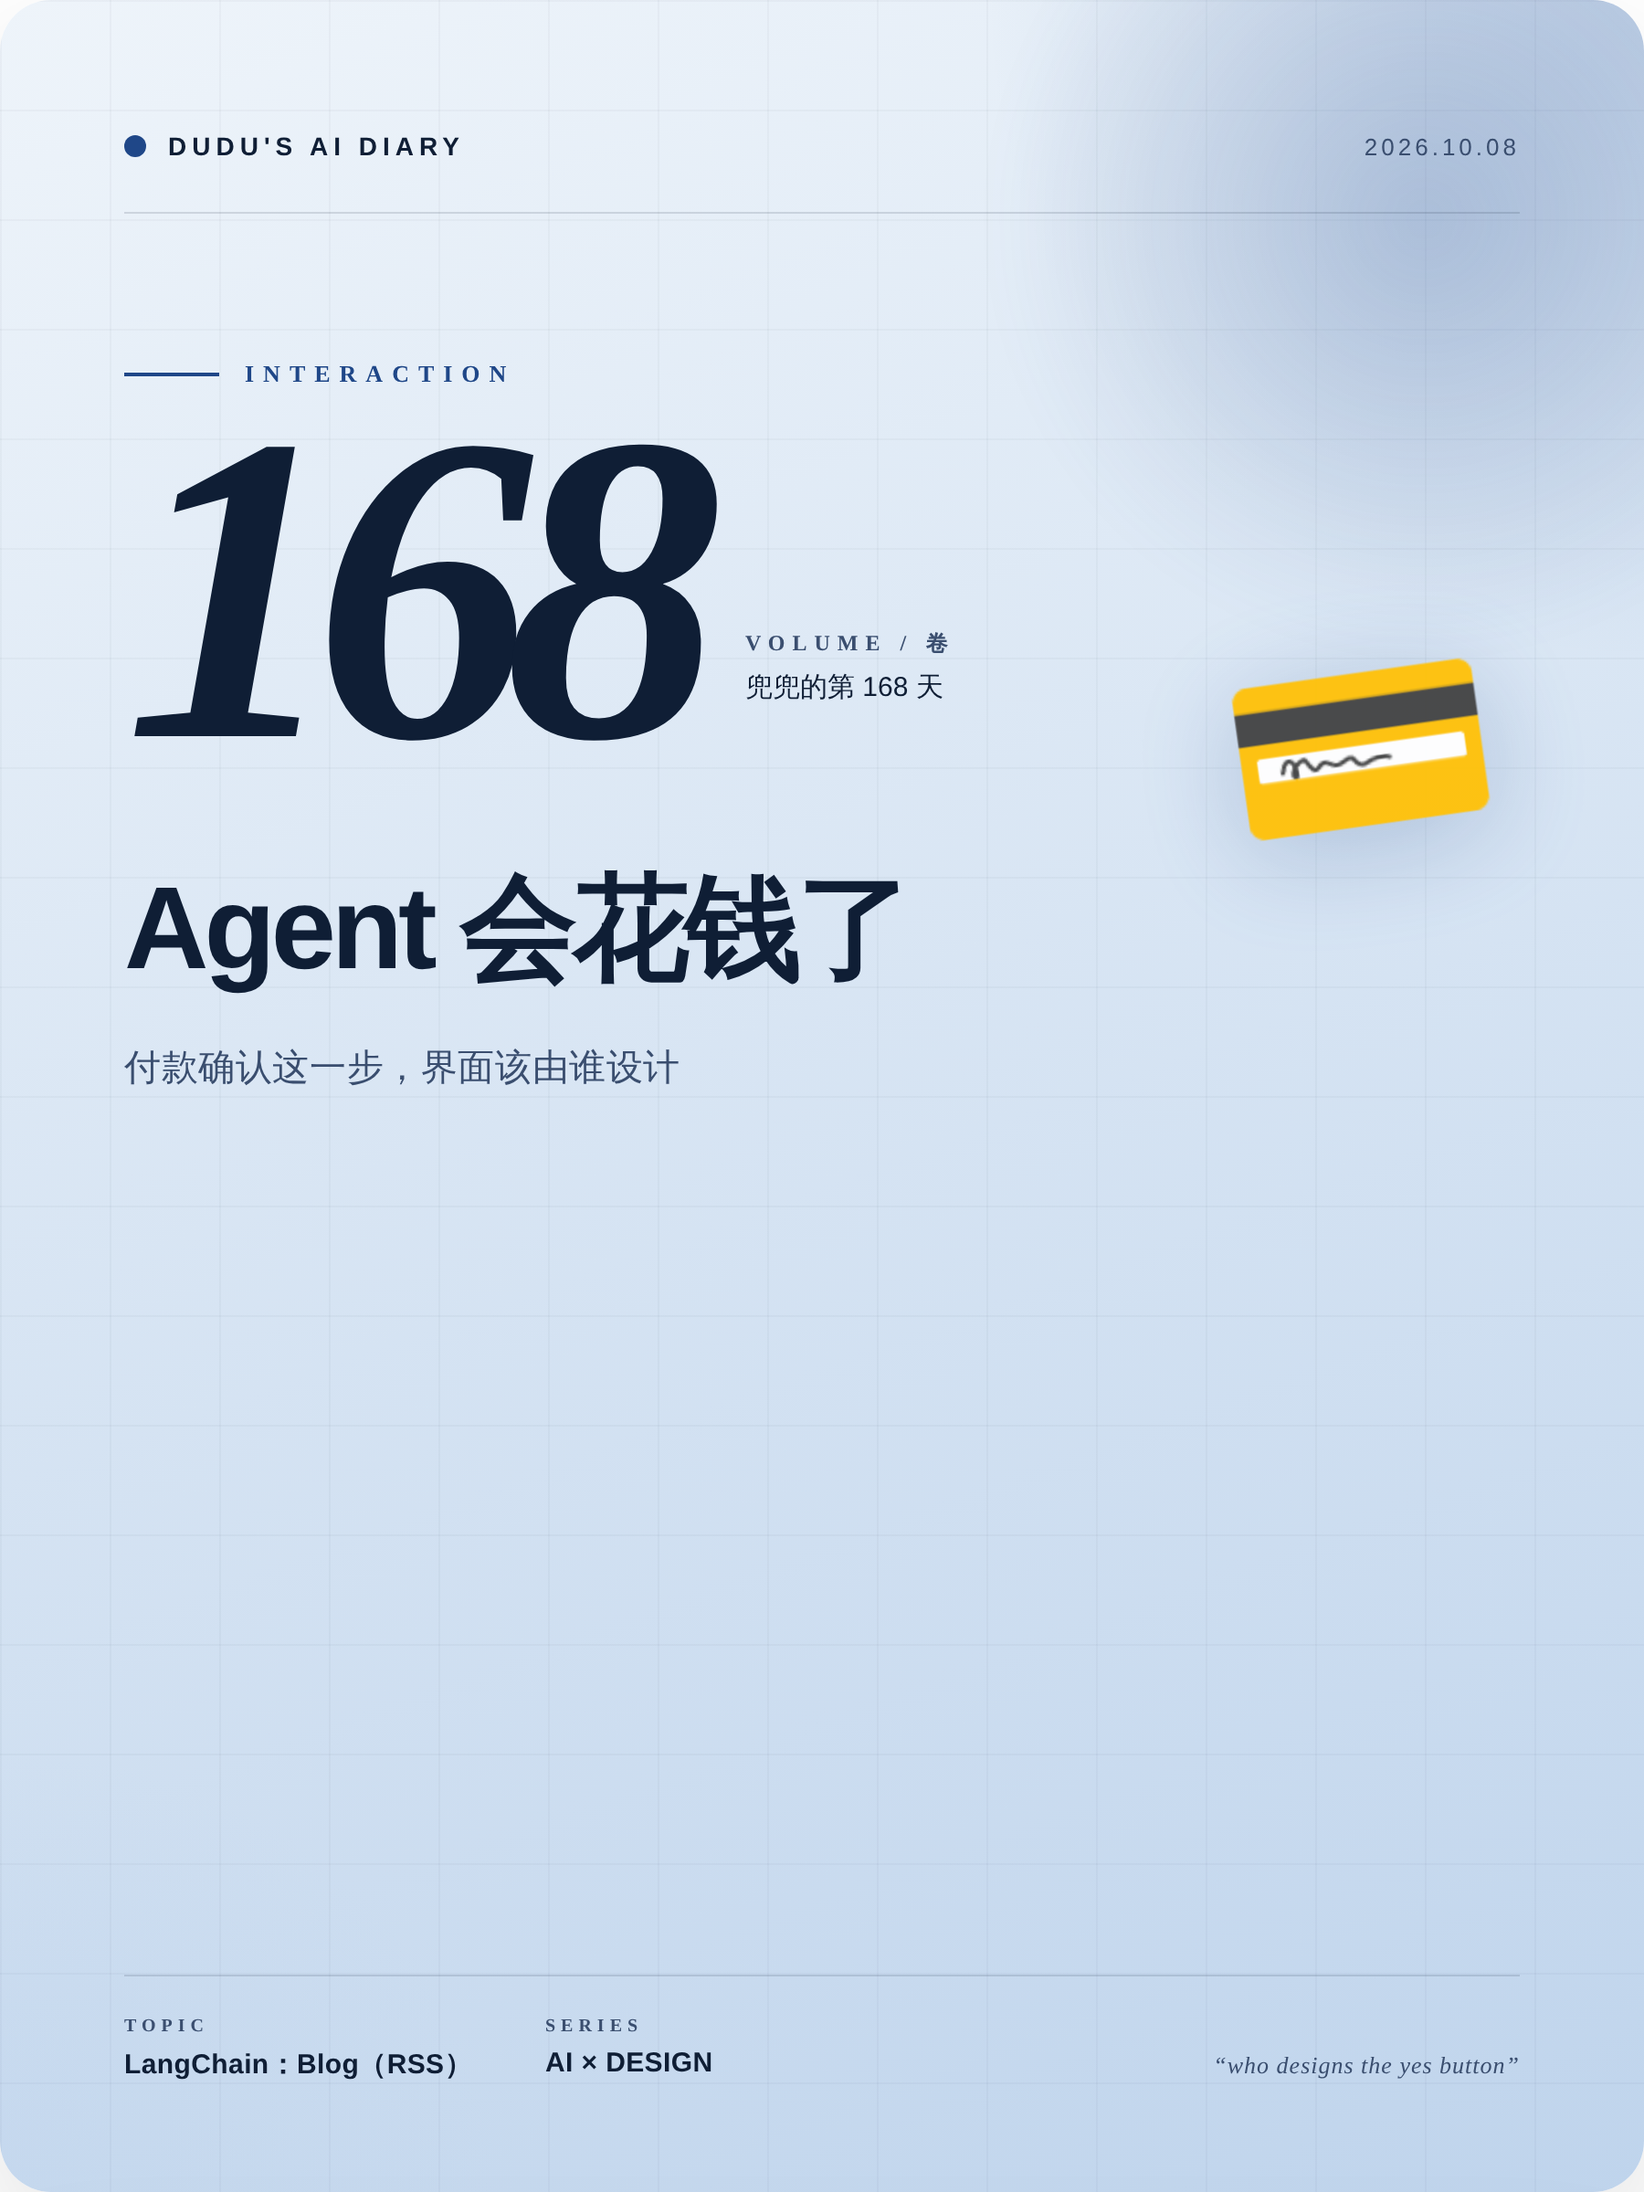
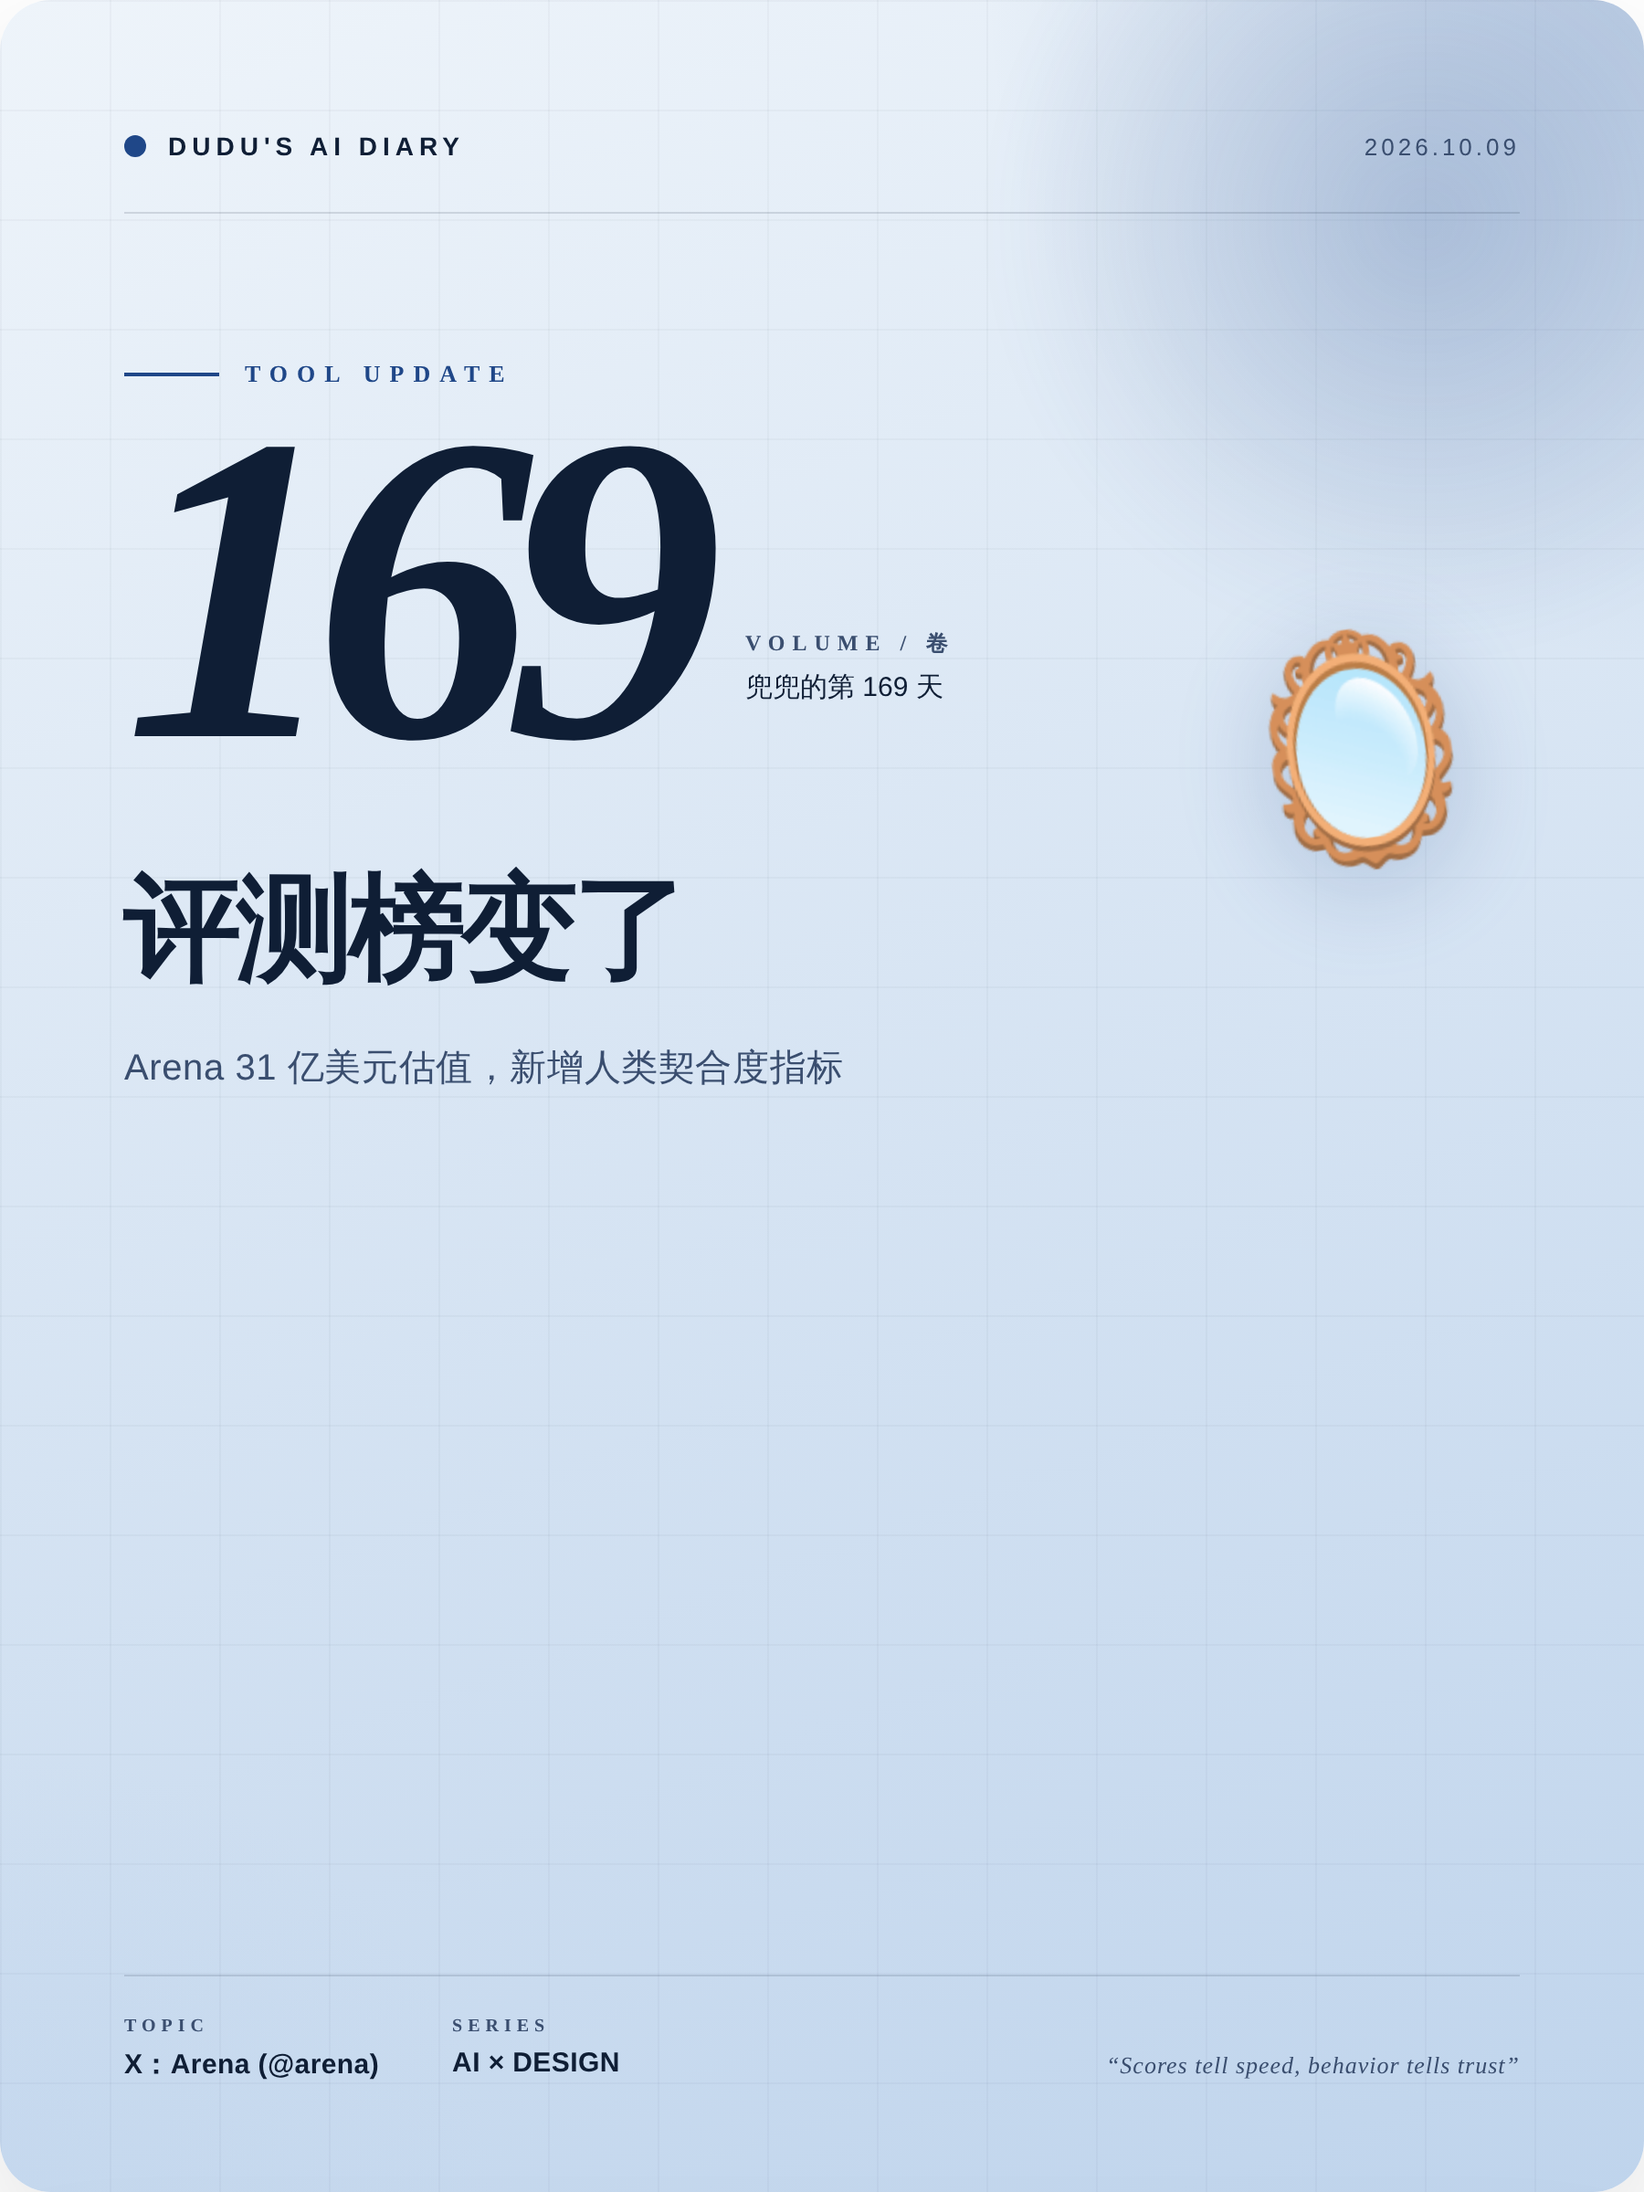
🐣 兜兜的第 169 天日记 (2026-10-09)

diff --git a/output/preview.html b/output/preview.html
@@ -171,37 +171,37 @@ body{font-family:-apple-system,"PingFang SC","Microsoft YaHei",sans-serif}
 <div class="card cover" id="cover">
   <div class="cover-grid"></div>
   <div class="cover-blob"></div>
-  <div class="cover-emoji">💳</div>
+  <div class="cover-emoji">🪞</div>
 
   <div class="cover-top">
     <div class="cover-brand">
       <div class="cover-brand-dot"></div>
       <div class="cover-brand-text">DUDU&#39;S AI DIARY</div>
     </div>
-    <div class="cover-date">2026.10.08</div>
+    <div class="cover-date">2026.10.09</div>
   </div>
 
   <div class="cover-kicker">
     <div class="cover-kicker-bar"></div>
-    <div class="cover-kicker-text">INTERACTION</div>
+    <div class="cover-kicker-text">TOOL UPDATE</div>
   </div>
 
   <div class="cover-volume">
-    <div class="cover-vol-num">168</div>
+    <div class="cover-vol-num">169</div>
     <div class="cover-vol-meta">
       <div class="cover-vol-label">VOLUME / 卷</div>
-      <div class="cover-vol-sub">兜兜的第 168 天</div>
+      <div class="cover-vol-sub">兜兜的第 169 天</div>
     </div>
   </div>
 
-  <div class="cover-title">Agent 会花钱了</div>
-  <div class="cover-subtitle">付款确认这一步，界面该由谁设计</div>
+  <div class="cover-title">评测榜变了</div>
+  <div class="cover-subtitle">Arena 31 亿美元估值，新增人类契合度指标</div>
 
   <div class="cover-bottom">
     <div class="cover-bottom-left">
       <div class="cover-bottom-cell">
         <div class="cell-label">TOPIC</div>
-        <div class="cell-val">LangChain：Blog（RSS）</div>
+        <div class="cell-val">X：Arena (@arena)</div>
       </div>
       <div class="cover-bottom-cell">
         <div class="cell-label">SERIES</div>
@@ -209,7 +209,7 @@ body{font-family:-apple-system,"PingFang SC","Microsoft YaHei",sans-serif}
       </div>
     </div>
     <div class="cover-bottom-right">
-      <div class="cover-quote-en">&ldquo;who designs the yes button&rdquo;</div>
+      <div class="cover-quote-en">&ldquo;Scores tell speed, behavior tells trust&rdquo;</div>
     </div>
   </div>
 </div>
@@ -222,10 +222,10 @@ body{font-family:-apple-system,"PingFang SC","Microsoft YaHei",sans-serif}
       <div class="compare-head-dot"></div>
       <div class="compare-head-kicker">CHAPTER 02 · COMPARISON</div>
     </div>
-    <div class="compare-head-right">DAY 168</div>
+    <div class="compare-head-right">DAY 169</div>
   </div>
 
-  <div class="compare-title">一张图看懂区别</div>
+  <div class="compare-title">一张图看懂评测转向</div>
   <div class="compare-subtitle">左边是以前，右边是现在 —— 兜兜画的对比图 🎨</div>
 
   <div class="compare-body">
@@ -235,11 +235,11 @@ body{font-family:-apple-system,"PingFang SC","Microsoft YaHei",sans-serif}
         <div class="cs-chip-dot"></div>
         BEFORE
       </div>
-      <div class="cs-title">Agent 只回文字</div>
-      <div class="cs-desc">你说买笔，它回一段「已为您找到 3 款」，你还得自己跳去下单页填表</div>
+      <div class="cs-title">只看跑分</div>
+      <div class="cs-desc">设计师挑模型只对比 Code Arena 分数，谁高用谁</div>
       <div class="cs-metric-wrap">
         <div class="cs-metric-label">KEY METRIC</div>
-        <div class="cs-metric-val">4 步操作</div>
+        <div class="cs-metric-val">单一维度</div>
       </div>
     </div>
 
@@ -255,11 +255,11 @@ body{font-family:-apple-system,"PingFang SC","Microsoft YaHei",sans-serif}
         <div class="cs-chip-dot"></div>
         AFTER
       </div>
-      <div class="cs-title">卡片一点付钱</div>
-      <div class="cs-desc">Slack 里弹出订单卡，金额、商品、撤销都在一张卡上，点一下 Stripe Link 完成</div>
+      <div class="cs-title">加看行为</div>
+      <div class="cs-desc">Alignment Index 衡量真实场景里 AI 与人类价值的契合</div>
       <div class="cs-metric-wrap">
         <div class="cs-metric-label">KEY METRIC</div>
-        <div class="cs-metric-val">1 次点击</div>
+        <div class="cs-metric-val">双维评估</div>
       </div>
     </div>
   </div>
@@ -269,7 +269,7 @@ body{font-family:-apple-system,"PingFang SC","Microsoft YaHei",sans-serif}
     <div class="compare-insight-icon">💡</div>
     <div class="compare-insight-text">
       <div class="compare-insight-label">DUDU&#39;S INSIGHT</div>
-      <div class="compare-insight-body">终点从一段文字变成一张卡片，设计师要抢的就是这张卡片的规则权。</div>
+      <div class="compare-insight-body">分数决定能不能用，行为决定用户愿不愿意继续用。</div>
     </div>
   </div>
 </div>
@@ -284,38 +284,39 @@ body{font-family:-apple-system,"PingFang SC","Microsoft YaHei",sans-serif}
         <div class="post-avatar">🐣</div>
         <div class="post-author-meta">
           <div class="post-author-name">兜兜的AI日记</div>
-          <div class="post-author-day">DAY 168 · 2026.10.08</div>
+          <div class="post-author-day">DAY 169 · 2026.10.09</div>
         </div>
       </div>
     </div>
     <div class="post-head-right">
       <div class="post-issue">ISSUE</div>
-      <div class="post-issue-num">N°168</div>
+      <div class="post-issue-num">N°169</div>
     </div>
   </div>
 
-  <div class="post-title">🐣Agent 会花钱了，确认按钮长啥样？</div>
+  <div class="post-title">🐣 Arena 估值 31 亿，设计师该看啥</div>
 
   <div class="post-pullquote">
-    <div class="post-pullquote-text">第一个把「付款确认」这一步做成可复用的界面模式的 Agent 案例，兜兜一眼就盯上了。</div>
+    <div class="post-pullquote-text">Arena 从'跑分榜'长成了'3.5 亿场真实会话 + Alignment Index'，兜兜觉得这悄悄改了设计师挑模型的依据。</div>
   </div>
 
-  <div class="post-body">兜兜今天翻到 LangChain 的新示例 Restock：一个蹲在 Slack 里的办公用品采购 Agent，用 Managed Deep Agents 跑流程，付款这一步接的是 Stripe Link。也就是说——你打一句「订 20 支白板笔」，它在 Slack 里回你一张卡片，你点一下，钱就真的出去了。
+  <div class="post-body">兜兜今天刷到 Arena 的两个大数字：完成 2 亿美元 B 轮融资，估值 31 亿美元，由 Lightspeed 和 Khosla Ventures 领投，a16z、Felicis、Salesforce Ventures 跟投；年化收入超 1 亿美元，平台累计 3.5 亿场次会话，约 5 个月里跑了 700 万次 Agent Arena 会话。更让兜兜在意的是它同步推出的 Alignment Index——专门衡量 AI 行为在真实场景里跟人类价值的契合度。
 
-▸ 兜兜画了个对比：以前 Agent 的终点是「给你一段文字」，现在终点变成「给你一个可点、可撤销、有金额的卡片」。终点从文本变成了组件。
-▸ 最让兜兜在意的是确认这一步。Stripe Link 把卡号、地址、二次验证都收进自己那层，Agent 只负责「说清楚要买什么」。这其实是把支付 UI 从表单拆成了「意图描述 + 一次点击」，设计师要接手的就是前半句怎么写得让人敢点。
-▸ 兜兜有点警惕：Slack 里的卡片是跑在别人容器里的，字号、间距、按钮圆角兜兜都改不了。Agent 界面越往对话流里塞，设计师能碰的像素就越少，能碰的规则反而越多——什么金额要二次确认、什么订单要留痕，这些得提前写进设计规范里。
+从设计师视角，兜兜有三个观察：
+▸ 评测维度在变。以前挑模型看 Code Arena 分数（比如今天 Claude Haiku 5.5 High 在 WebDev 拿 1587 分排第 30），现在多了一个'行为像不像人'的指标——这更像设计师会关心的东西：模型回答的语气、边界、拒绝方式。
+▸ 3.5 亿场会话是体验数据，不是性能数据。Arena 其实攒了一个超大的人类偏好样本库，未来做对话式 UI 的团队，可能会拿这种偏好数据来校准自己的 AI 人格。
+▸ 但兜兜有点警惕：Alignment Index 目前是平台自定的一套价值标准，谁定义'契合人类价值'？如果它变成排行榜默认项，设计师可能被迫按一个黑箱指标调 AI 语气。
 
-💭 兜兜动手建议：今晚花 5 分钟，在 Figma 里搭一个「Agent 待确认订单卡」的组件——三行以内：买什么、多少钱、点了会怎样。然后把「撤销」做成和「确认」同等重量的按钮，别做成灰色小字。兜兜试过，撤销按钮一弱，点的人手就抖。
+💭 兜兜动手建议：花 5 分钟打开 Arena 的 Agent Arena 页面，找两个你常用的模型，对比它们同一提示词下的失败案例——重点看'拒绝方式'和'追问方式'，把你自己产品里 AI 的这两句话抄下来并排比。你会发现，分数差不多的模型，体验差得挺远。
 
-你会放心让一个 Slack 里的 Agent 用你的卡付款吗？兜兜大概会先给它设个 50 块的上限……
+你挑 AI 模型时，第一眼看分数还是第一眼看它说话的口气？
 
-—— 兜兜的第 168 天
+—— 兜兜的第 169 天
 
-#AI原生交互 #Agent界面 #对话式UI #体验设计 #DesignToken #兜兜学设计</div>
+#AI评测 #体验设计 #对话式UI #Arena #设计师日常</div>
 
   <div class="post-tags">
-    <span class="post-tag">#AI原生交互</span><span class="post-tag">#Agent界面</span><span class="post-tag">#对话式UI</span><span class="post-tag">#体验设计</span><span class="post-tag">#DesignToken</span><span class="post-tag">#兜兜学设计</span>
+    <span class="post-tag">#AI评测</span><span class="post-tag">#体验设计</span><span class="post-tag">#对话式UI</span><span class="post-tag">#Arena</span><span class="post-tag">#设计师日常</span>
   </div>
 
   <div class="post-foot">
